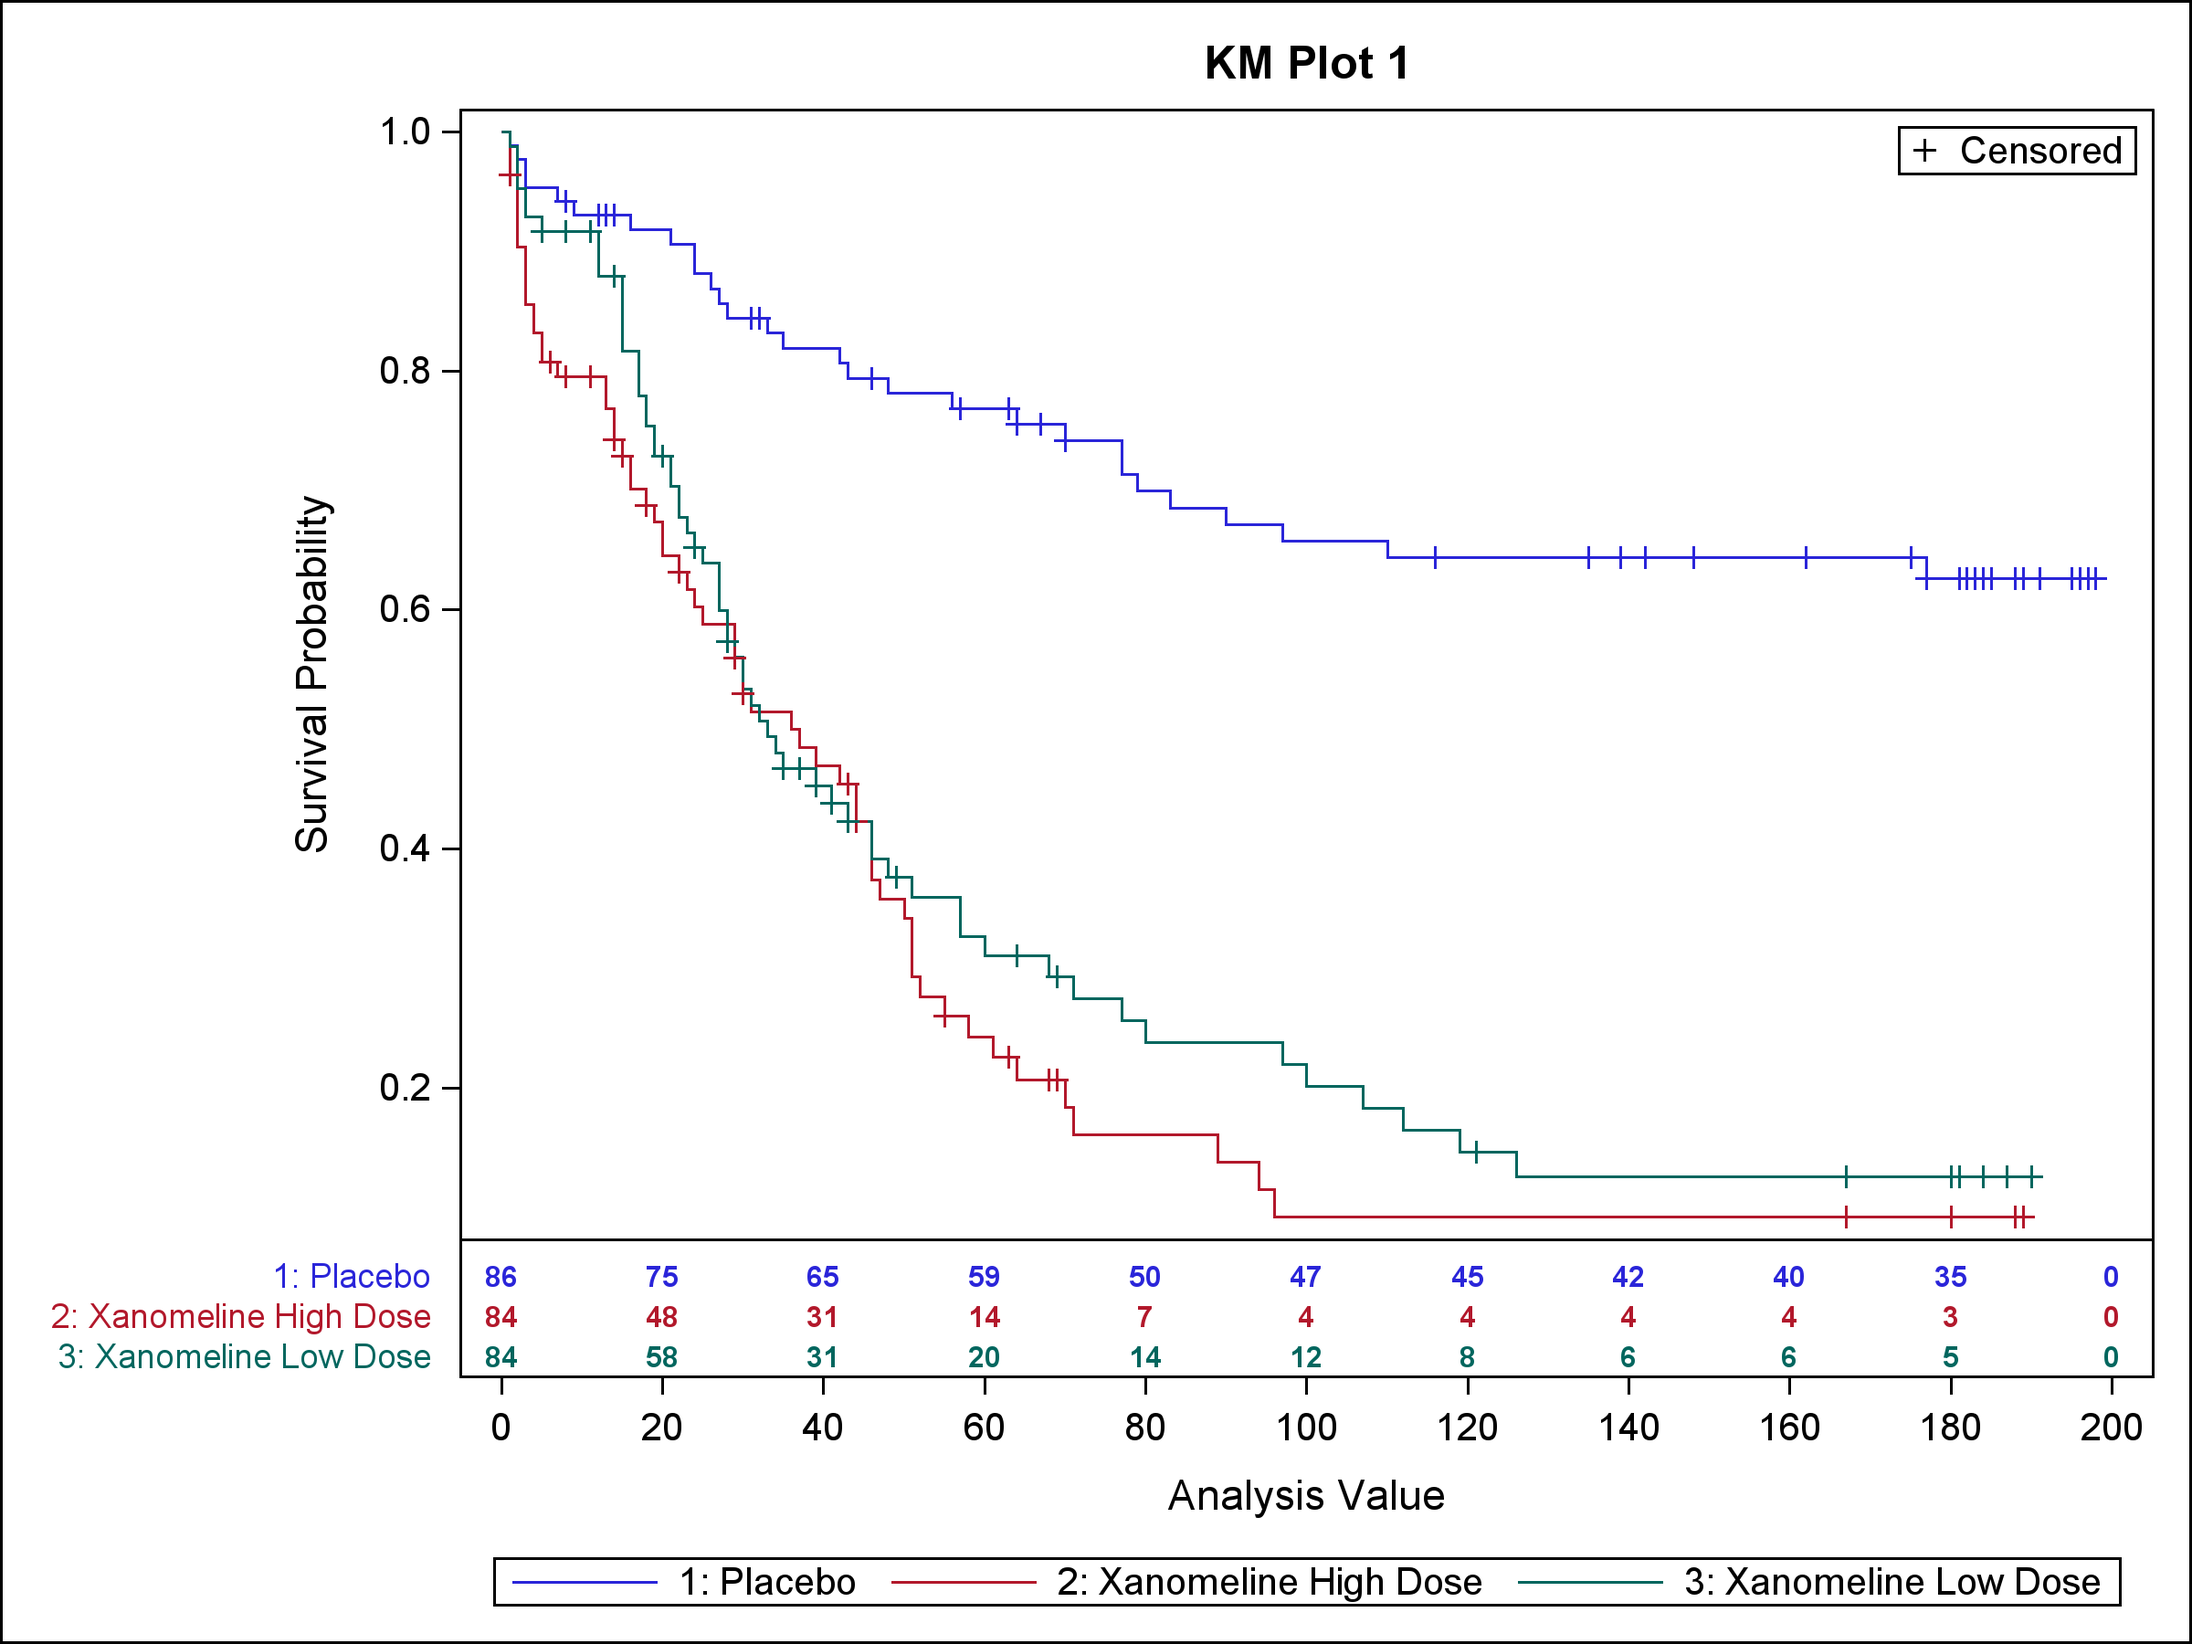
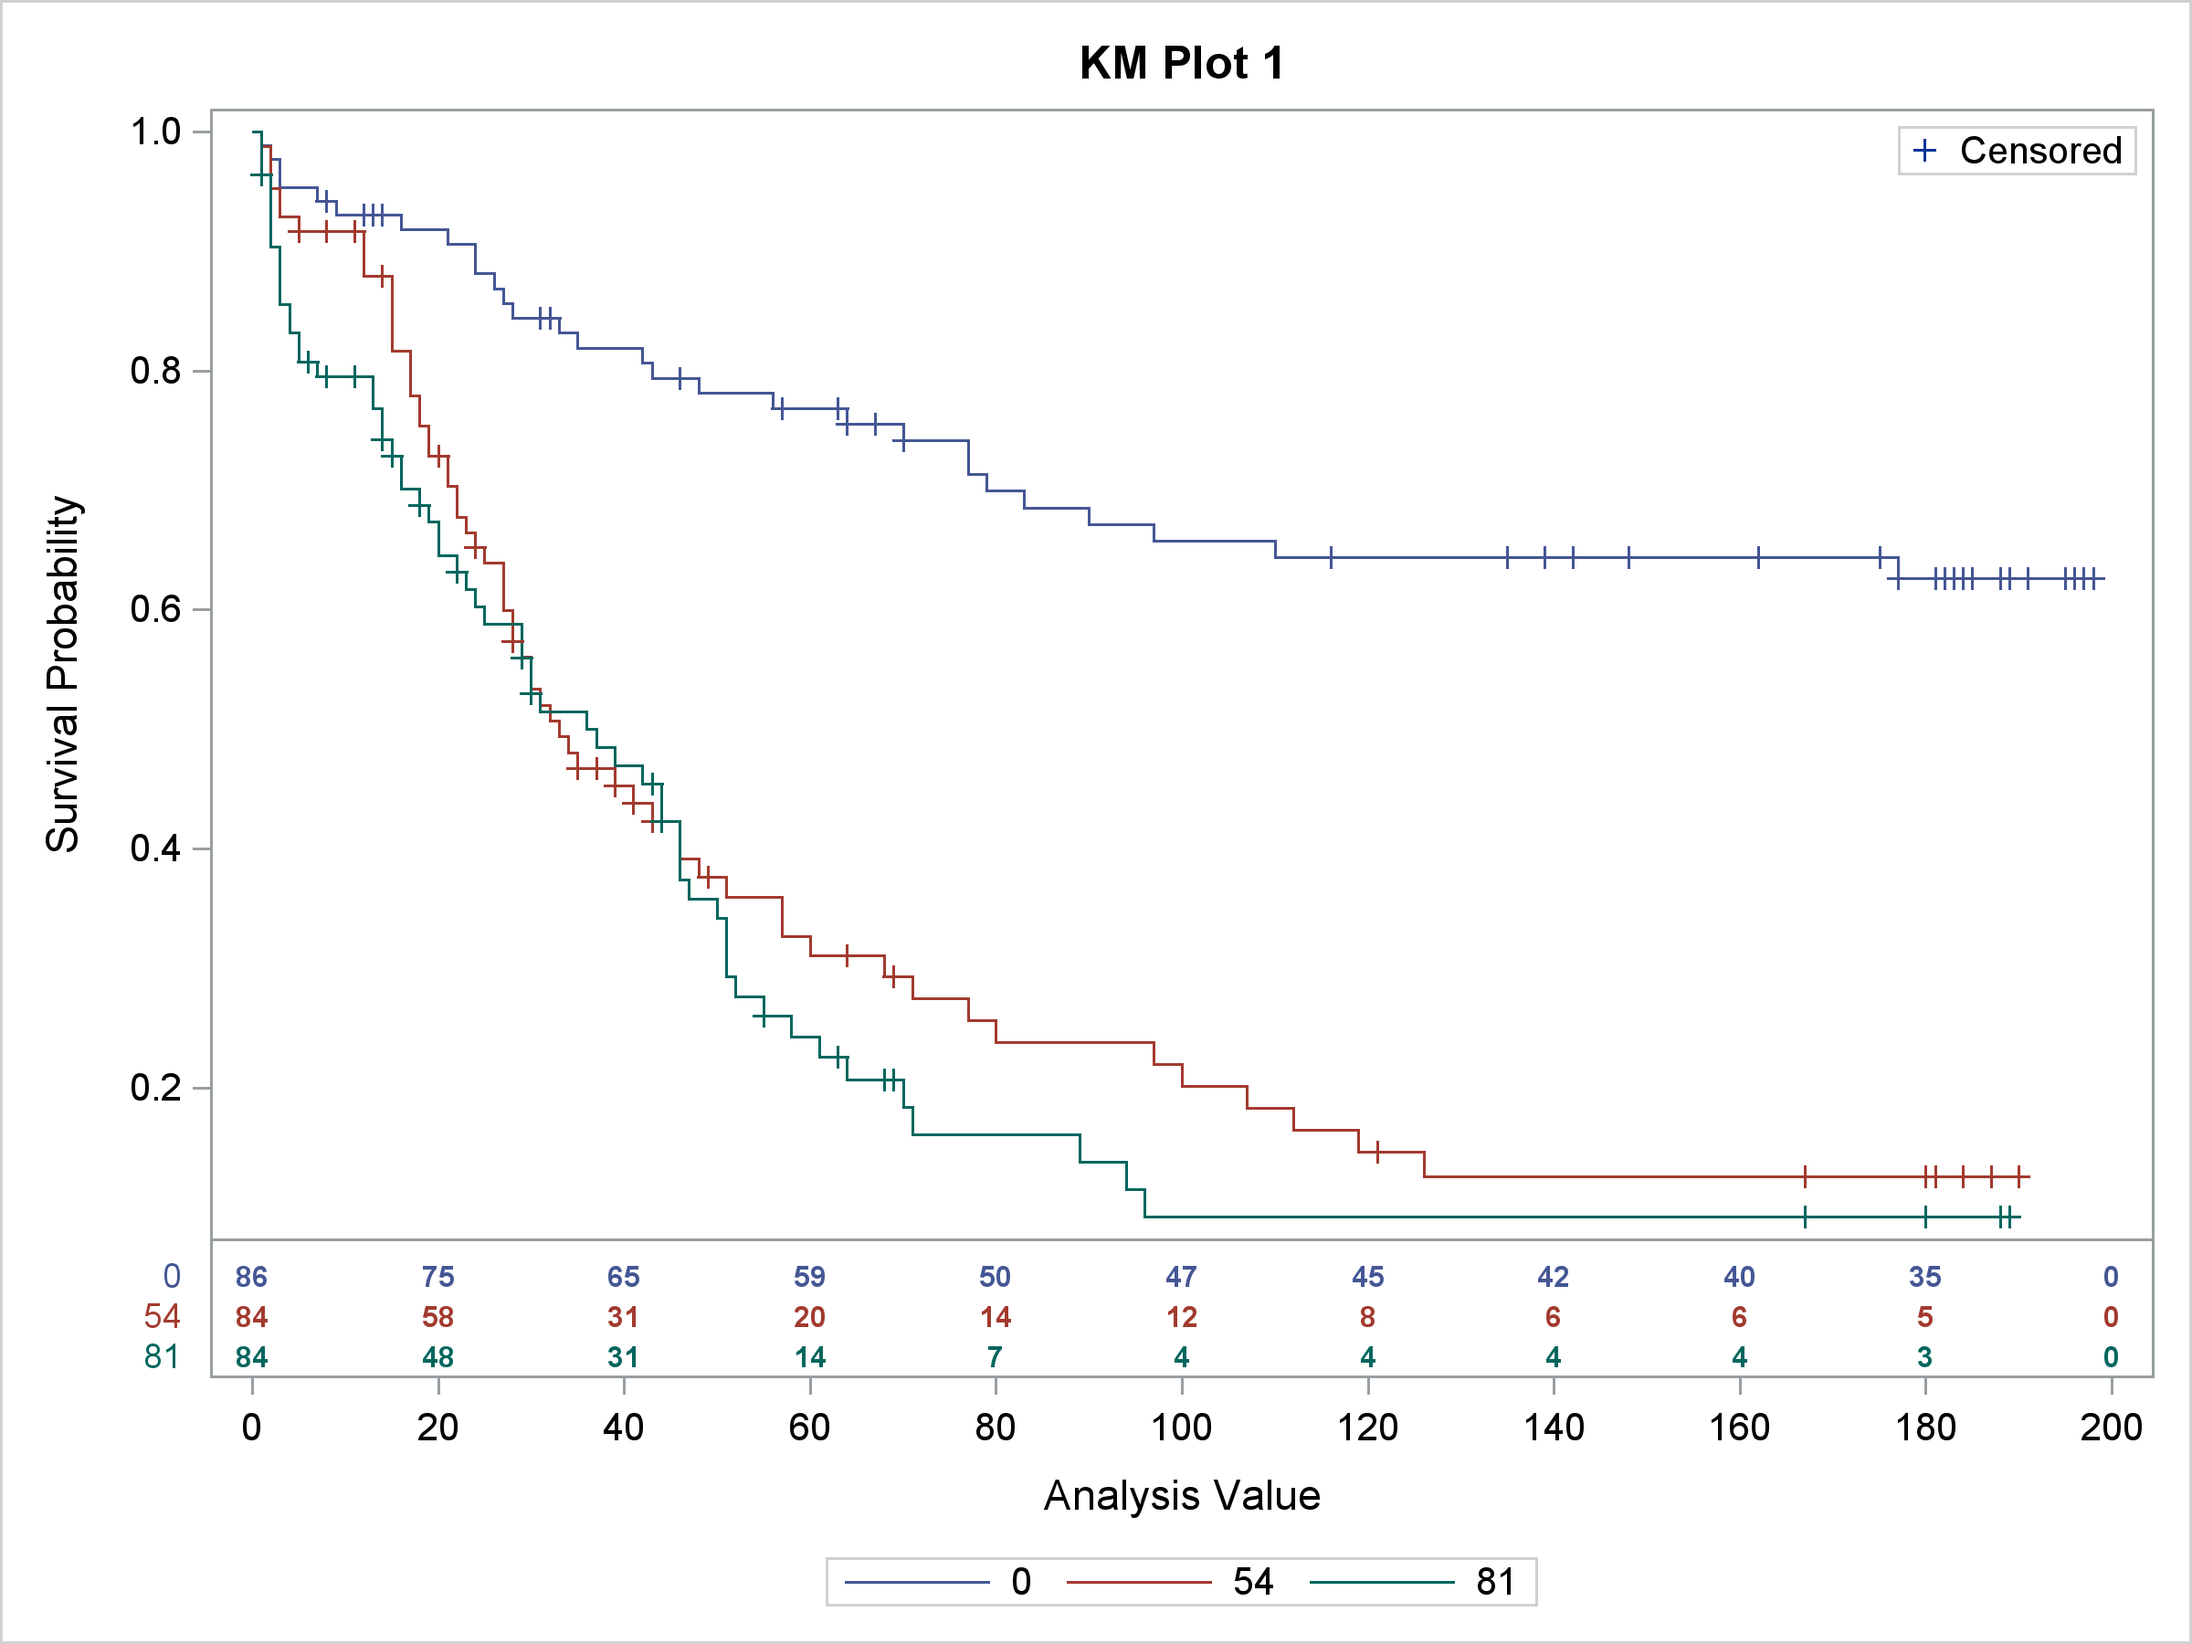
Deployed bb873d6 with MkDocs version: 1.6.1

diff --git a/kmplots/index.html b/kmplots/index.html
@@ -62,7 +62,7 @@
     <div data-md-component="skip">
       
         
-        <a href="#km-plot-with-numer-of-subjects-at-risk" class="md-skip">
+        <a href="#1-km-plot-with-numer-of-subjects-at-risk" class="md-skip">
           Skip to content
         </a>
       
@@ -277,10 +277,21 @@
     <ul class="md-nav__list" data-md-component="toc" data-md-scrollfix>
       
         <li class="md-nav__item">
-  <a href="#km-plot-with-numer-of-subjects-at-risk" class="md-nav__link">
+  <a href="#1-km-plot-with-numer-of-subjects-at-risk" class="md-nav__link">
     <span class="md-ellipsis">
       
-        KM Plot with numer of subjects at risk
+        1. KM Plot with numer of subjects at risk
+      
+    </span>
+  </a>
+  
+</li>
+      
+        <li class="md-nav__item">
+  <a href="#2-km-plot-2" class="md-nav__link">
+    <span class="md-ellipsis">
+      
+        2. KM Plot 2
       
     </span>
   </a>
@@ -320,10 +331,21 @@
     <ul class="md-nav__list" data-md-component="toc" data-md-scrollfix>
       
         <li class="md-nav__item">
-  <a href="#km-plot-with-numer-of-subjects-at-risk" class="md-nav__link">
+  <a href="#1-km-plot-with-numer-of-subjects-at-risk" class="md-nav__link">
     <span class="md-ellipsis">
       
-        KM Plot with numer of subjects at risk
+        1. KM Plot with numer of subjects at risk
+      
+    </span>
+  </a>
+  
+</li>
+      
+        <li class="md-nav__item">
+  <a href="#2-km-plot-2" class="md-nav__link">
+    <span class="md-ellipsis">
+      
+        2. KM Plot 2
       
     </span>
   </a>
@@ -349,27 +371,26 @@
 
   <h1>KM plots</h1>
 
-<h2 id="km-plot-with-numer-of-subjects-at-risk">KM Plot with numer of subjects at risk</h2>
-<p><img alt="Basic scatter" src="../output/kmplot011.png" /></p>
-<details class="example">
-<summary>SAS code (from file)</summary>
+<h2 id="1-km-plot-with-numer-of-subjects-at-risk">1. KM Plot with numer of subjects at risk</h2>
+<p><img alt="KM 1" src="../output/kmplot011.png" /></p>
+<details class="snippet">
+<summary>Snippet</summary>
 <div class="highlight"><pre><span></span><code>%let fpath=C:\_D\PROJECTS\_LEARNING\sas\sasplots\docs;
 
 libname xptadam xport &quot;&amp;fpath.\data\adam\xpt\adtte.xpt&quot;;
 
 proc copy inlib=xptadam outlib=work;
 run;
-
+ods graphics on;
 ods output survivalplot=surv1;
-ods listing close;
 proc lifetest data=adtte plots=survival(atrisk=0 to 200 by 20);
     time aval*cnsr(1);
-    strata trta;
+    strata trtan;
 run;
-ods listing;
+ods graphics off;
 
 
-ods listing /*style=htmlblue*/ image_dpi=300 gpath=&quot;&amp;fpath.\output&quot;; 
+ods listing style=htmlblue image_dpi=300 gpath=&quot;&amp;fpath.\output&quot;; 
 
 ods graphics / reset width=8in height=6in imagename=&#39;kmplot01&#39;;
 
@@ -384,8 +405,11 @@ proc sgplot data=surv1;
     keylegend &#39;c&#39; / location=inside position=topright;
     keylegend &#39;s&#39;;
 run;
+
+ods graphics off;
 </code></pre></div>
 </details>
+<h2 id="2-km-plot-2">2. KM Plot 2</h2>
 
 
 

diff --git a/index.html b/index.html
@@ -354,8 +354,10 @@
 
 
 <h1 id="info">Info</h1>
+<p>The purpose of this website is to create a gallery of commonly produced plots in clinical setting, along with respective SAS snippets.</p>
 <h2 id="data">Data</h2>
-<p>Data used in the examples comes from CDISC pilot project.</p>
+<p>The source data used in the examples come from CDISC pilot project.
+All examples are solely ilustrative and focus on layout. No conclusions should be drawn from presented results. </p>
 
 
 
